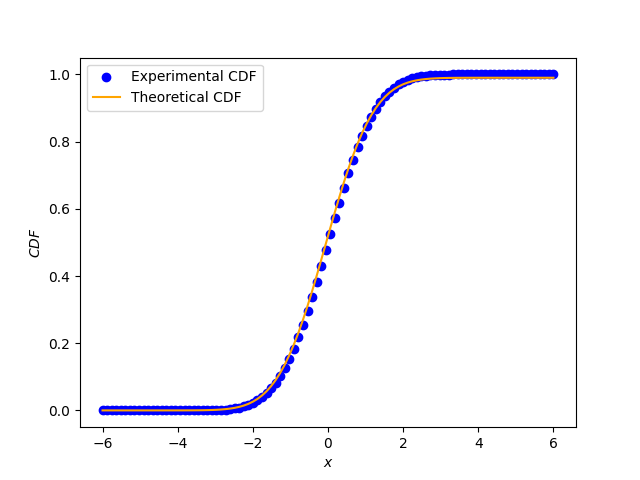
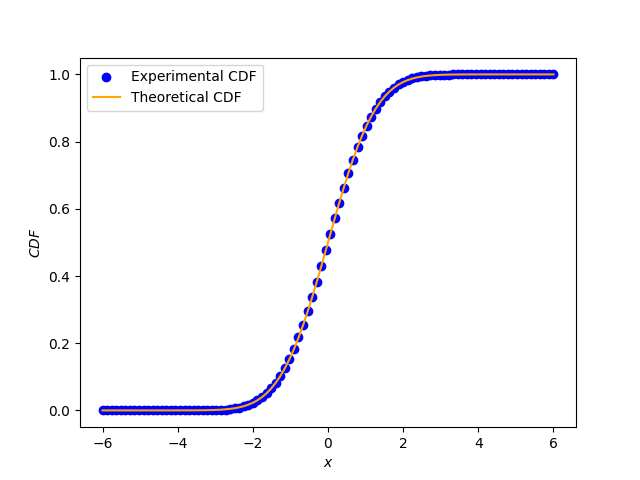
Use Q function

diff --git a/Assignment - Random Numbers/codes/2-2.py b/Assignment - Random Numbers/codes/2-2.py
@@ -13,17 +13,13 @@ for i in range(0, maxrange):
     arr_n = np.size(arr_leq)
     err.append(arr_n/size)
 
-tg = []
-def gauss_pdf(y):
-	return 1/mp.sqrt(2*np.pi)*np.exp(-y**2/2.0)
 
-sum = 0
-for i in range(0,maxrange):
-    sum += gauss_pdf(x[i]) * (12/maxrange)
-    tg.append(sum)
+def gauss_cdf(y):
+	return 1 - (mp.erfc(y/mp.sqrt(2)))/2
 
+tg = np.vectorize(gauss_cdf,otypes=[np.float])
 plt.scatter(x, err, color="blue", label="Experimental CDF")
-plt.plot(x, tg, color='orange', label="Theoretical CDF")
+plt.plot(x, tg(x), color='orange', label="Theoretical CDF")
 plt.xlabel('$x$')
 plt.ylabel('$CDF$')
 plt.legend(loc='best')
